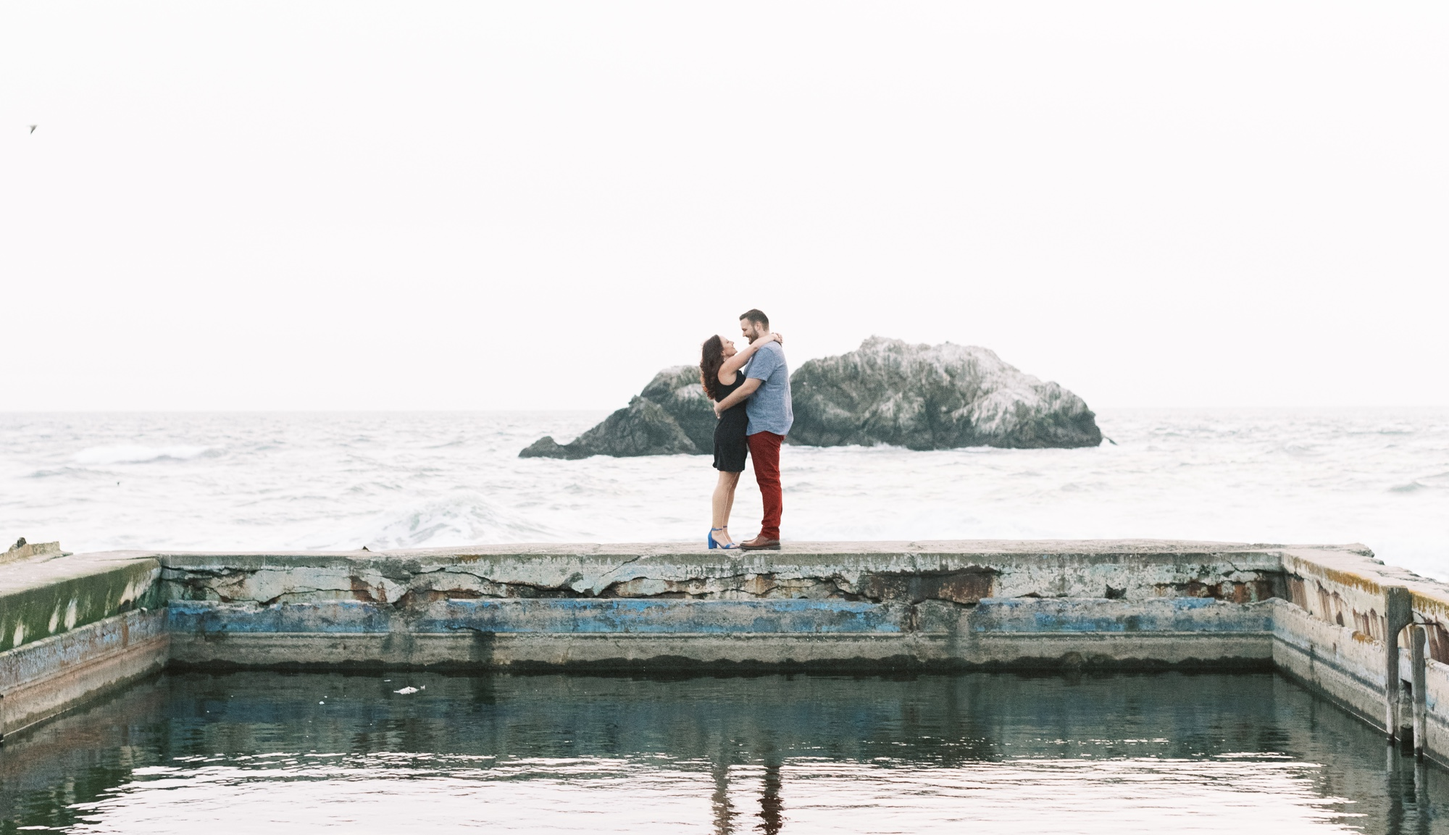
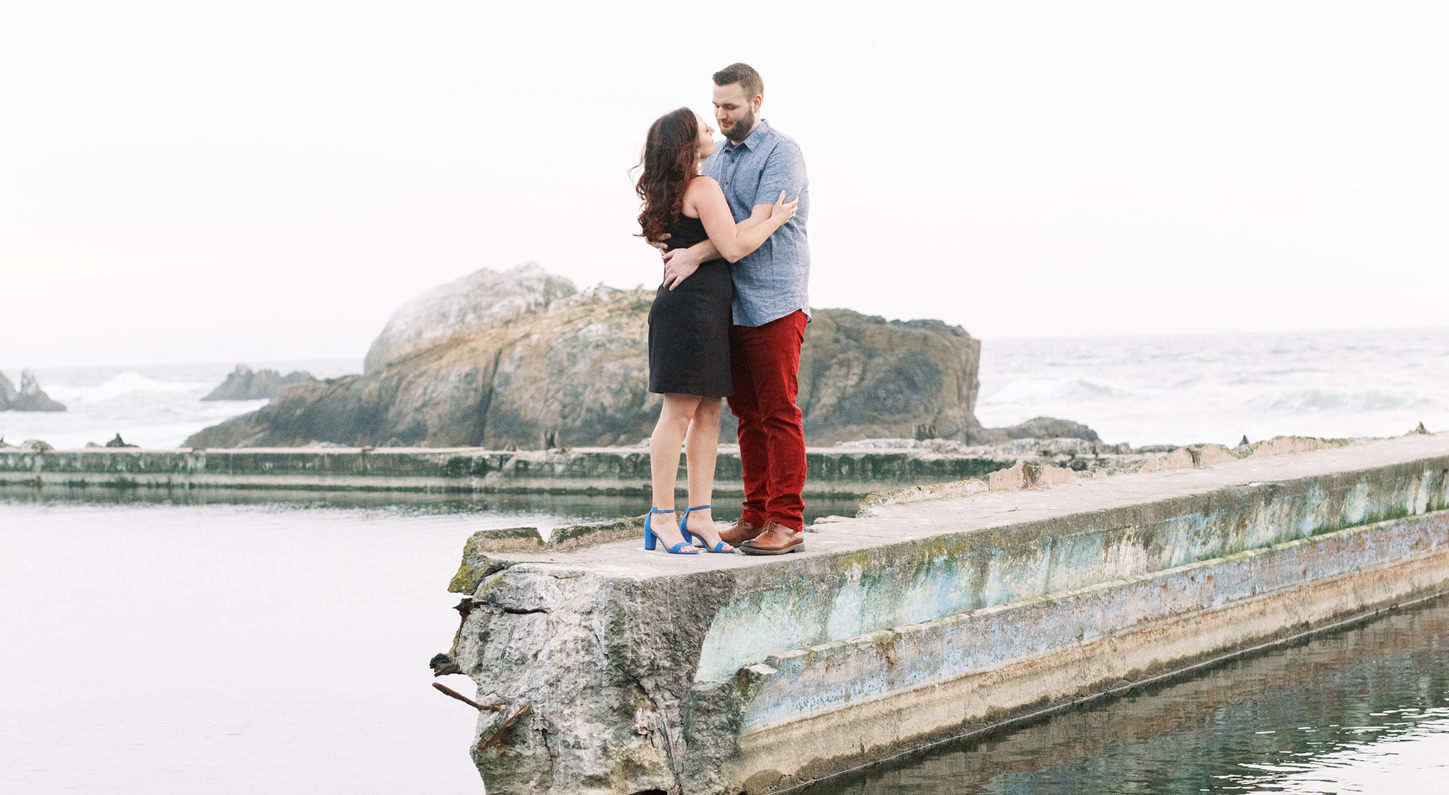
Different hero images and better cutouts

diff --git a/css/styles.min.css b/css/styles.min.css
@@ -1,1 +1,1 @@
-@import url(https://fonts.googleapis.com/css?family=Open+Sans:300italic,400italic,600italic,700italic,800italic,400,300,600,700,800);@import url(https://fonts.googleapis.com/css?family=Merriweather:400,300,400italic,300italic,700,700italic);@import url(https://fonts.googleapis.com/css?family=Nunito:400,300,700);p{font-size:15px;line-height:29px;color:rgba(28,54,83,0.6);padding-bottom:20px}h1{font-size:60px}h2{font-size:40px;font-weight:300;color:#3D4351}h3{color:#3D4351;font-size:18px;font-weight:700;text-transform:uppercase;letter-spacing:3px;line-height:29px}h4{font-size:18px}h5{font-size:15px;color:#3D4351;text-transform:uppercase;font-weight:500}.btn{font-size:13px;border:solid 2px;-moz-border-radius:40px;-webkit-border-radius:40px;border-radius:40px;display:inline-block;text-transform:uppercase}.btn:hover,.btn:focus{color:#fff;border-color:#e8ca6f;background-color:#e8ca6f}.btn-white{font-size:13px;border:solid 2px;-moz-border-radius:40px;-webkit-border-radius:40px;border-radius:40px;display:inline-block;border-color:#fff}.btn-white:hover,.btn-white:focus{color:#e8ca6f;border-color:#e8ca6f}.btn-fill{color:#fff;border:solid 2px #e8ca6f;-moz-border-radius:40px;-webkit-border-radius:40px;border-radius:40px;display:inline-block;text-transform:uppercase;background-color:#e8ca6f}.btn-fill:hover,.btn-fill:focus{color:#fff;background-color:#d3b56a;border-color:#d3b56a}.btn-small{padding:8px 30px}.btn-large{padding:15px 40px}.btn-margin-right{margin-right:20px}section.intro,section.features-extra,section.rsvp{background:#fff}section.features,section.events,section.blog{background:#f8f9fd}.group:after{content:"";display:table;clear:both}.no-padding{padding:0}.no-margin{margin:0}a{color:#e8ca6f;-webkit-transition-timing-function:ease;transition-timing-function:ease;-webkit-transition-duration:200ms;transition-duration:200ms;-webkit-transition-property:color, border-color, background-color;transition-property:color, border-color, background-color}a:hover,a:focus{color:#d3b56a;text-decoration:none}body{font-family:"Open Sans",sans-serif;font-weight:300;color:rgba(28,54,83,0.6);-webkit-text-size-adjust:100%}*:focus{outline:none !important}ul,ol{margin:0;padding:0}ul li{list-style:none}section .header{padding-bottom:30px}.section-padding{padding:40px 0}.section-border{border-bottom:1px solid #E6E9EA}.tooltip{position:absolute;z-index:1070;display:block;font-family:"Helvetica Neue", Helvetica, Arial, sans-serif;font-size:12px;font-weight:normal;line-height:1.4;visibility:visible;filter:alpha(opacity=0);opacity:0}.tooltip.in{filter:alpha(opacity=90);opacity:.9}.tooltip.top{padding:5px 0;margin-top:-3px}.tooltip.right{padding:0 5px;margin-left:3px}.tooltip.bottom{padding:5px 0;margin-top:3px}.tooltip.left{padding:0 5px;margin-left:-3px}.tooltip-inner{max-width:200px;padding:3px 8px;color:#fff;text-align:center;text-decoration:none;text-transform:capitalize;background-color:#000;border-radius:4px}.pulse2{animation-name:pulse2;animation-duration:1s;animation-iteration-count:infinite;animation-timing-function:linear}@keyframes pulse2{0%{transform:scale(1.1)}50%{transform:scale(0.8)}100%{transform:scale(1)}}.floating-arrow{animation-name:floating-arrow;animation-duration:2s;animation-iteration-count:infinite;animation-timing-function:ease-in-out}@keyframes floating-arrow{from{transform:translate(-50%, 0)}65%{transform:translate(-50%, 15px)}to{transform:translate(-50%, 0)}}.floating-logo{animation-name:floating-logo;animation-duration:2s;animation-iteration-count:infinite;animation-timing-function:ease-in-out}@keyframes floating-logo{from{transform:translate(-50%, 0)}50%{transform:translate(-50%, 10px)}to{transform:translate(-50%, 0)}}.wp1,.wp2,.wp3,.wp4,.wp5,.wp6,.wp7,.wp8,.wp9{visibility:hidden}.wp8,.wp9{-webkit-animation-delay:0.3s;animation-delay:0.3s}.bounceInLeft,.bounceInRight,.fadeInUp,.fadeInUpDelay,.fadeInDown,.fadeInUpD,.fadeInLeft,.fadeInRight,.bounceInDown{visibility:visible}.header-nav.open{visibility:visible;opacity:0.9;-webkit-transition:opacity 0.5s;transition:opacity 0.5s}.nav-toggle{position:absolute;top:0;right:15px;z-index:999999;padding:10px 35px 16px 0;cursor:pointer}.nav-toggle:focus{outline:none}.nav-toggle span,.nav-toggle span:before,.nav-toggle span:after{content:"";position:absolute;display:block;width:35px;height:3px;-moz-border-radius:1px;-webkit-border-radius:1px;border-radius:1px;background:#fff;cursor:pointer}.nav-toggle span:before{top:-10px}.nav-toggle span:after{bottom:-10px}.nav-toggle span,.nav-toggle span:before,.nav-toggle span:after{-moz-transition:all 300ms ease-in-out;-o-transition:all 300ms ease-in-out;-webkit-transition:all 300ms ease-in-out;transition:all 300ms ease-in-out}.nav-toggle.active span{background-color:transparent}.nav-toggle.active span:before,.nav-toggle.active span:after{top:0}.nav-toggle.active span:before{-moz-transform:rotate(45deg);-ms-transform:rotate(45deg);-o-transform:rotate(45deg);-webkit-transform:rotate(45deg);transform:rotate(45deg)}.nav-toggle.active span:after{top:10px;-moz-transform:translatey(-10px) rotate(-45deg);-ms-transform:translatey(-10px) rotate(-45deg);-o-transform:translatey(-10px) rotate(-45deg);-webkit-transform:translatey(-10px) rotate(-45deg);transform:translatey(-10px) rotate(-45deg)}.navicon{position:absolute;height:26px;right:10px;top:48px;visibility:hidden;transition:all 300ms ease-in-out}.hero{min-height:750px;background:url("../img/hero.jpg") center center;-webkit-background-size:cover;-moz-background-size:cover;-o-background-size:cover;background-size:cover;position:relative}.hero .down-arrow a{color:#fff}.hero h1{color:#fff;margin-bottom:40px}.hero p.intro{color:#fff;font-size:20px;font-weight:300;margin-bottom:80px}.hero .hero-content{padding-top:40%}.hero .hero-content img{width:55%;margin-bottom:12%}.navigation{transition:all 300ms ease-in-out;position:fixed;width:100%;z-index:999}.fixed{position:fixed;background-color:rgba(55,36,40,0.88);z-index:999;width:100%}header{padding:50px 0;border-bottom:solid 1px rgba(255,255,255,0.2);position:relative;width:1170px;margin:0 auto;transition:padding 300ms ease-in-out}header a{color:#fff;text-transform:uppercase;font-size:13px}header a.login{margin-right:20px}header .logo{display:inline-block}header .logo img{height:19px}header ul.primary-nav{margin:0 0 0 75px;padding:0}header ul.primary-nav li{display:inline}header ul.primary-nav li a{color:#fff;padding-right:25px}header ul.primary-nav li a:hover{color:#e8ca6f}header ul.primary-nav li:last-child a{padding-right:0px}header ul.member-actions li{display:inline}header ul.member-actions li a{color:#fff}header ul.member-actions li a:hover{color:#e8ca6f}header .header-nav{display:inline-block}header .member-actions{position:absolute;right:0;top:41px;transition:all 300ms ease-in-out}.down-arrow{color:#fff;font-size:30px;position:absolute;bottom:30px;left:50%;transform:translateX(-50%)}.share-bar{margin-top:20px}.intro span.icon{font-size:40px;color:#e8ca6f;font-weight:bold}.intro-icon{display:inline-block;vertical-align:top;padding:6px 0 0 0;margin-right:20px;width:40px}.intro-content{display:inline-block;width:80%}#intro{padding-top:40px}#intro img{width:100%;height:auto}#intro p{text-align:center}.features{position:relative}.features p{margin-bottom:0;padding-bottom:0}.features h3{margin:0 0 20px 0}.features span.icon{font-size:35px;color:#e8ca6f;font-weight:bold}.features .feature-icon{display:inline-block;vertical-align:top;padding:6px 0 0 0;margin-right:20px;width:35px}.features .feature-content{display:inline-block;width:75%}.features .intro-icon{display:inline-block;vertical-align:top;padding:6px 0 0 0;margin-right:20px}.features .intro-content{display:inline-block;width:80%}.features ul.features-stack{margin-top:50px}.features ul.features-stack li{margin-top:20px;padding-bottom:20px;border-bottom:solid 1px #E6E9EA}.features ul.features-stack li:last-child{padding-bottom:0px;border-bottom:none}.features .ipad-wrap{width:706px;height:1002px;background:url("../img/ipad-device.png") no-repeat center center;z-index:1}.features .iphone-wrap{width:304px;height:620px;background:url("../img/iphone6.png") no-repeat center center;position:absolute;left:530px;bottom:129px;z-index:2}.features .device-showcase{position:absolute;bottom:-365px;right:61%}.features .responsive-feature-img,.features-extra .responsive-feature-img{display:none}.devices{position:relative}.features-extra{position:relative;z-index:3}.features-extra .btn{margin-top:20px}.features-extra .macbook-wrap{position:absolute;width:916px;height:540px;background:url("../img/macbook-pro.png") no-repeat center center;top:114px;z-index:4;left:50%}.hero-strip{margin-top:120px;background:#333844 url("../img/polygonal-bg.jpg") no-repeat center center;padding-bottom:190px;position:relative}.hero-strip i{font-family:"Nunito",sans-serif;font-weight:300;font-size:25px;color:#F69D52;vertical-align:top;margin-left:-8px;font-style:normal}.hero-strip h2{color:#fff;margin:0 0 20px 0}.hero-strip p{color:#ACB1B4}.hero-strip .btn{margin-top:10px}.hero-strip .logo-placeholder{width:230px;height:230px;position:absolute;bottom:-285px;left:50%;transform:translateX(-50%)}.events .leftcol{padding-right:100px;border-right:solid 1px #E6E9EA}.events .rightcol{padding-left:100px}.events .time{font-size:13px;font-style:italic;text-transform:lowercase;color:rgba(28,54,83,0.6)}.blog{padding-bottom:120px}.blog img{width:100%;height:auto;-moz-transition:all 300ms ease-in-out;-o-transition:all 300ms ease-in-out;-webkit-transition:all 300ms ease-in-out;transition:all 300ms ease-in-out}.blog h2{font-size:11px;color:#ACB1B4;font-weight:500;text-transform:uppercase;margin-top:35px}.blog .btn{margin-top:20px}.blog .blog-img-wrap{position:relative;overflow:hidden}.blog .blog-img-wrap .overlay{position:absolute;width:100%;height:100%;background-color:rgba(255,255,255,0.5);-moz-transition:all 300ms ease-in-out;-o-transition:all 300ms ease-in-out;-webkit-transition:all 300ms ease-in-out;transition:all 300ms ease-in-out;-ms-filter:"progid:DXImageTransform.Microsoft.Alpha(Opacity=0)";filter:alpha(opacity=0);opacity:0}.blog .blog-img-wrap i{color:#fff;font-size:20px;position:absolute;width:20px;height:20px;top:25px;right:35px}.blog .blog-img-wrap:hover img,.blog .blog-img-wrap:focus img{-moz-transform:scale(1.1);-ms-transform:scale(1.1);-o-transform:scale(1.1);-webkit-transform:scale(1.1);transform:scale(1.1)}.blog .blog-img-wrap:hover .overlay,.blog .blog-img-wrap:focus .overlay{-ms-filter:"progid:DXImageTransform.Microsoft.Alpha(Opacity=1)";filter:alpha(opacity=1);opacity:1;z-index:9}.blog figcaption i{margin-left:5px;font-size:15px}.blog figcaption a.blog-post-title{color:rgba(28,54,83,0.6)}.blog figcaption a.blog-post-title:hover,.blog figcaption a.blog-post-title:focus{color:#3D4351}#instagram img{width:100%}#eng-pics img{width:100%;height:auto;-moz-transition:all 300ms ease-in-out;-o-transition:all 300ms ease-in-out;-webkit-transition:all 300ms ease-in-out;transition:all 300ms ease-in-out}#eng-pics .img-wrap{position:relative;overflow:hidden;border-radius:4px}#eng-pics .img-wrap .overlay{position:absolute;width:100%;height:100%;background-color:rgba(255,255,255,0.5);-moz-transition:all 300ms ease-in-out;-o-transition:all 300ms ease-in-out;-webkit-transition:all 300ms ease-in-out;transition:all 300ms ease-in-out;-ms-filter:"progid:DXImageTransform.Microsoft.Alpha(Opacity=0)";filter:alpha(opacity=0);opacity:0}#eng-pics .img-wrap i{color:#fff;font-size:15px;position:absolute;width:15px;height:15px;top:6px;right:6px}#eng-pics .img-wrap:hover img,#eng-pics .img-wrap:focus img{-moz-transform:scale(1.1);-ms-transform:scale(1.1);-o-transform:scale(1.1);-webkit-transform:scale(1.1);transform:scale(1.1)}#eng-pics .img-wrap:hover .overlay,#eng-pics .img-wrap:focus .overlay{-ms-filter:"progid:DXImageTransform.Microsoft.Alpha(Opacity=1)";filter:alpha(opacity=1);opacity:1;z-index:9}#eng-pics .diamond{width:230px;height:230px;position:absolute;bottom:-145px;left:50%;transform:translateX(-50%);z-index:500}#eng-pics .ring{width:75px;height:75px;border-radius:75px;border:10px solid #d0d3d4;position:absolute;left:34%;top:75%;z-index:-1}#video-bg{height:300px}#video-content{width:100%;height:100%;padding-top:100px;position:relative;background:rgba(17,17,17,0.5);text-align:center}#video-content h5{color:#ffffff;font-size:30px;font-weight:300;letter-spacing:10px}#video-content p{color:#ffffff}#map-canvas{height:500px;width:100%}#map-content-wrapper{position:relative;margin-top:-502px;margin-bottom:150px}#map-content{margin-top:40px;padding:50px 60px;background:#fff;-webkit-transition:opacity 0.5s, visibility 0.6s, margin-top 0.5s;transition:opacity 0.5s, visibility 0.6s, margin-top 0.5s}#btn-show-content{padding:20px;background:#fff;cursor:pointer;display:inline-block;-webkit-transition:opacity 0.5s, visibility 0.6s, margin-top 0.5s;transition:opacity 0.5s, visibility 0.6s, margin-top 0.5s}.toggle-map-content{opacity:0;visibility:hidden}.pointer-events-none{pointer-events:none}.pointer-events-auto{pointer-events:auto}.rsvp{padding-bottom:140px}.rsvp .rsvp-form .rsvp-btn{padding:15px 0;border-radius:3px;width:100%;font-size:13px}.rsvp .rsvp-form .form-input-group{width:100%;height:55px;margin:0 auto 10px;-moz-border-radius:5px;-webkit-border-radius:5px;border-radius:5px;border:solid 1px #E6E9EA;text-align:left;position:relative}.rsvp .rsvp-form .form-input-group i{color:#e8ca6f;font-size:14px}.rsvp .rsvp-form .form-input-group i:after{content:"";height:30px;width:1px;border-right:solid 1px #E6E9EA;position:absolute;top:50%;left:30px;transform:translateY(-50%)}.rsvp .rsvp-form .form-input-group i.fa-user,.rsvp .rsvp-form .form-input-group i.fa-users,.rsvp .rsvp-form .form-input-group i.fa-envelope,.rsvp .rsvp-form .form-input-group .fa-key{font-size:14px;position:absolute;top:50%;transform:translateY(-50%);margin-left:20px}.rsvp .rsvp-form .form-input-group input{padding-left:68px;width:100%;height:100%;-moz-border-radius:6px;-webkit-border-radius:6px;border-radius:6px;border:none}.rsvp .rsvp-form .form-input-group input::-webkit-input-placeholder{color:#BCC1C3}.rsvp .rsvp-form .form-input-group input:-moz-placeholder{color:#BCC1C3}.rsvp .rsvp-form .form-input-group input::-moz-placeholder{color:#BCC1C3}.rsvp .rsvp-form .form-input-group input:-ms-input-placeholder{color:#BCC1C3}footer .content{border-top:1px solid #E6E9EA;padding-bottom:20px}footer .to-top-wrapper{font-size:30px;display:block;cursor:pointer;margin:-25px auto 50px;border-radius:50%;width:50px;height:50px;border:1px solid #E6E9EA;background:#fff}footer .to-top-wrapper .to-top{display:block;-webkit-transition:all .3s ease-in-out;-moz-transition:all .3s ease-in-out;-ms-transition:all .3s ease-in-out;-o-transition:all .3s ease-in-out;transition:all .3s ease-in-out}footer .to-top-wrapper .to-top:hover{margin-top:-5px}footer span.fa-heart{color:#ff415c;font-size:18px;margin:0 2px}body.modal-open{padding-right:0 !important}.modal-body{padding:25px}
+@import url(https://fonts.googleapis.com/css?family=Open+Sans:300italic,400italic,600italic,700italic,800italic,400,300,600,700,800);@import url(https://fonts.googleapis.com/css?family=Merriweather:400,300,400italic,300italic,700,700italic);@import url(https://fonts.googleapis.com/css?family=Nunito:400,300,700);p{font-size:15px;line-height:29px;color:rgba(28,54,83,0.6);padding-bottom:20px}h1{font-size:60px}h2{font-size:40px;font-weight:300;color:#3D4351}h3{color:#3D4351;font-size:18px;font-weight:700;text-transform:uppercase;letter-spacing:3px;line-height:29px}h4{font-size:18px}h5{font-size:15px;color:#3D4351;text-transform:uppercase;font-weight:500}.btn{font-size:13px;border:solid 2px;-moz-border-radius:40px;-webkit-border-radius:40px;border-radius:40px;display:inline-block;text-transform:uppercase}.btn:hover,.btn:focus{color:#fff;border-color:#e8ca6f;background-color:#e8ca6f}.btn-white{font-size:13px;border:solid 2px;-moz-border-radius:40px;-webkit-border-radius:40px;border-radius:40px;display:inline-block;border-color:#fff}.btn-white:hover,.btn-white:focus{color:#e8ca6f;border-color:#e8ca6f}.btn-fill{color:#fff;border:solid 2px #e8ca6f;-moz-border-radius:40px;-webkit-border-radius:40px;border-radius:40px;display:inline-block;text-transform:uppercase;background-color:#e8ca6f}.btn-fill:hover,.btn-fill:focus{color:#fff;background-color:#d3b56a;border-color:#d3b56a}.btn-small{padding:8px 30px}.btn-large{padding:15px 40px}.btn-margin-right{margin-right:20px}section.intro,section.features-extra,section.rsvp{background:#fff}section.features,section.events,section.blog{background:#f8f9fd}.group:after{content:"";display:table;clear:both}.no-padding{padding:0}.no-margin{margin:0}a{color:#e8ca6f;-webkit-transition-timing-function:ease;transition-timing-function:ease;-webkit-transition-duration:200ms;transition-duration:200ms;-webkit-transition-property:color, border-color, background-color;transition-property:color, border-color, background-color}a:hover,a:focus{color:#d3b56a;text-decoration:none}body{font-family:"Open Sans",sans-serif;font-weight:300;color:rgba(28,54,83,0.6);-webkit-text-size-adjust:100%}*:focus{outline:none !important}ul,ol{margin:0;padding:0}ul li{list-style:none}section .header{padding-bottom:30px}.section-padding{padding:40px 0}.section-border{border-bottom:1px solid #E6E9EA}.tooltip{position:absolute;z-index:1070;display:block;font-family:"Helvetica Neue", Helvetica, Arial, sans-serif;font-size:12px;font-weight:normal;line-height:1.4;visibility:visible;filter:alpha(opacity=0);opacity:0}.tooltip.in{filter:alpha(opacity=90);opacity:.9}.tooltip.top{padding:5px 0;margin-top:-3px}.tooltip.right{padding:0 5px;margin-left:3px}.tooltip.bottom{padding:5px 0;margin-top:3px}.tooltip.left{padding:0 5px;margin-left:-3px}.tooltip-inner{max-width:200px;padding:3px 8px;color:#fff;text-align:center;text-decoration:none;text-transform:capitalize;background-color:#000;border-radius:4px}.pulse2{animation-name:pulse2;animation-duration:1s;animation-iteration-count:infinite;animation-timing-function:linear}@keyframes pulse2{0%{transform:scale(1.1)}50%{transform:scale(0.8)}100%{transform:scale(1)}}.floating-arrow{animation-name:floating-arrow;animation-duration:2s;animation-iteration-count:infinite;animation-timing-function:ease-in-out}@keyframes floating-arrow{from{transform:translate(-50%, 0)}65%{transform:translate(-50%, 15px)}to{transform:translate(-50%, 0)}}.floating-logo{animation-name:floating-logo;animation-duration:2s;animation-iteration-count:infinite;animation-timing-function:ease-in-out}@keyframes floating-logo{from{transform:translate(-50%, 0)}50%{transform:translate(-50%, 10px)}to{transform:translate(-50%, 0)}}.wp1,.wp2,.wp3,.wp4,.wp5,.wp6,.wp7,.wp8,.wp9{visibility:hidden}.wp8,.wp9{-webkit-animation-delay:0.3s;animation-delay:0.3s}.bounceInLeft,.bounceInRight,.fadeInUp,.fadeInUpDelay,.fadeInDown,.fadeInUpD,.fadeInLeft,.fadeInRight,.bounceInDown{visibility:visible}.header-nav.open{visibility:visible;opacity:0.9;-webkit-transition:opacity 0.5s;transition:opacity 0.5s}.nav-toggle{position:absolute;top:0;right:15px;z-index:999999;padding:10px 35px 16px 0;cursor:pointer}.nav-toggle:focus{outline:none}.nav-toggle span,.nav-toggle span:before,.nav-toggle span:after{content:"";position:absolute;display:block;width:35px;height:3px;-moz-border-radius:1px;-webkit-border-radius:1px;border-radius:1px;background:#fff;cursor:pointer}.nav-toggle span:before{top:-10px}.nav-toggle span:after{bottom:-10px}.nav-toggle span,.nav-toggle span:before,.nav-toggle span:after{-moz-transition:all 300ms ease-in-out;-o-transition:all 300ms ease-in-out;-webkit-transition:all 300ms ease-in-out;transition:all 300ms ease-in-out}.nav-toggle.active span{background-color:transparent}.nav-toggle.active span:before,.nav-toggle.active span:after{top:0}.nav-toggle.active span:before{-moz-transform:rotate(45deg);-ms-transform:rotate(45deg);-o-transform:rotate(45deg);-webkit-transform:rotate(45deg);transform:rotate(45deg)}.nav-toggle.active span:after{top:10px;-moz-transform:translatey(-10px) rotate(-45deg);-ms-transform:translatey(-10px) rotate(-45deg);-o-transform:translatey(-10px) rotate(-45deg);-webkit-transform:translatey(-10px) rotate(-45deg);transform:translatey(-10px) rotate(-45deg)}.navicon{position:absolute;height:26px;right:10px;top:48px;visibility:hidden;transition:all 300ms ease-in-out}.hero{min-height:950px;background:url("../img/hero.jpg") center center;-webkit-background-size:cover;-moz-background-size:cover;-o-background-size:cover;background-size:cover;position:relative}.hero .down-arrow a{color:#fff}.hero h1{color:#fff;margin-bottom:40px}.hero p.intro{color:#fff;font-size:20px;font-weight:300;margin-bottom:80px}.hero .hero-content{padding-top:40%}.hero .hero-content img{width:55%;margin-bottom:12%}.navigation{transition:all 300ms ease-in-out;position:fixed;width:100%;z-index:999}.fixed{position:fixed;background-color:rgba(55,36,40,0.88);z-index:999;width:100%}header{padding:50px 0;border-bottom:solid 1px rgba(255,255,255,0.2);position:relative;width:1170px;margin:0 auto;transition:padding 300ms ease-in-out}header a{color:#fff;text-transform:uppercase;font-size:13px}header a.login{margin-right:20px}header .logo{display:inline-block}header .logo img{height:19px}header ul.primary-nav{margin:0 0 0 75px;padding:0}header ul.primary-nav li{display:inline}header ul.primary-nav li a{color:#fff;padding-right:25px}header ul.primary-nav li a:hover{color:#e8ca6f}header ul.primary-nav li:last-child a{padding-right:0px}header ul.member-actions li{display:inline}header ul.member-actions li a{color:#fff}header ul.member-actions li a:hover{color:#e8ca6f}header .header-nav{display:inline-block}header .member-actions{position:absolute;right:0;top:41px;transition:all 300ms ease-in-out}.down-arrow{color:#fff;font-size:30px;position:absolute;bottom:30px;left:50%;transform:translateX(-50%)}.share-bar{margin-top:20px}.intro span.icon{font-size:40px;color:#e8ca6f;font-weight:bold}.intro-icon{display:inline-block;vertical-align:top;padding:6px 0 0 0;margin-right:20px;width:40px}.intro-content{display:inline-block;width:80%}#intro{padding-top:40px}#intro img{width:100%;height:auto}#intro p{text-align:center}.features{position:relative}.features p{margin-bottom:0;padding-bottom:0}.features h3{margin:0 0 20px 0}.features span.icon{font-size:35px;color:#e8ca6f;font-weight:bold}.features .feature-icon{display:inline-block;vertical-align:top;padding:6px 0 0 0;margin-right:20px;width:35px}.features .feature-content{display:inline-block;width:75%}.features .intro-icon{display:inline-block;vertical-align:top;padding:6px 0 0 0;margin-right:20px}.features .intro-content{display:inline-block;width:80%}.features ul.features-stack{margin-top:50px}.features ul.features-stack li{margin-top:20px;padding-bottom:20px;border-bottom:solid 1px #E6E9EA}.features ul.features-stack li:last-child{padding-bottom:0px;border-bottom:none}.features .ipad-wrap{width:706px;height:1002px;background:url("../img/ipad-device.png") no-repeat center center;z-index:1}.features .iphone-wrap{width:304px;height:620px;background:url("../img/iphone6.png") no-repeat center center;position:absolute;left:530px;bottom:129px;z-index:2}.features .device-showcase{position:absolute;bottom:-365px;right:61%}.features .responsive-feature-img,.features-extra .responsive-feature-img{display:none}.devices{position:relative}.features-extra{position:relative;z-index:3}.features-extra .btn{margin-top:20px}.features-extra .macbook-wrap{position:absolute;width:916px;height:540px;background:url("../img/macbook-pro.png") no-repeat center center;top:114px;z-index:4;left:50%}.hero-strip{margin-top:120px;background:#333844 url("../img/polygonal-bg.jpg") no-repeat center center;padding-bottom:190px;position:relative}.hero-strip i{font-family:"Nunito",sans-serif;font-weight:300;font-size:25px;color:#F69D52;vertical-align:top;margin-left:-8px;font-style:normal}.hero-strip h2{color:#fff;margin:0 0 20px 0}.hero-strip p{color:#ACB1B4}.hero-strip .btn{margin-top:10px}.hero-strip .logo-placeholder{width:230px;height:230px;position:absolute;bottom:-285px;left:50%;transform:translateX(-50%)}.events .leftcol{padding-right:100px;border-right:solid 1px #E6E9EA}.events .rightcol{padding-left:100px}.events .time{font-size:13px;font-style:italic;text-transform:lowercase;color:rgba(28,54,83,0.6)}.blog{padding-bottom:120px}.blog img{width:100%;height:auto;-moz-transition:all 300ms ease-in-out;-o-transition:all 300ms ease-in-out;-webkit-transition:all 300ms ease-in-out;transition:all 300ms ease-in-out}.blog h2{font-size:11px;color:#ACB1B4;font-weight:500;text-transform:uppercase;margin-top:35px}.blog .btn{margin-top:20px}.blog .blog-img-wrap{position:relative;overflow:hidden}.blog .blog-img-wrap .overlay{position:absolute;width:100%;height:100%;background-color:rgba(255,255,255,0.5);-moz-transition:all 300ms ease-in-out;-o-transition:all 300ms ease-in-out;-webkit-transition:all 300ms ease-in-out;transition:all 300ms ease-in-out;-ms-filter:"progid:DXImageTransform.Microsoft.Alpha(Opacity=0)";filter:alpha(opacity=0);opacity:0}.blog .blog-img-wrap i{color:#fff;font-size:20px;position:absolute;width:20px;height:20px;top:25px;right:35px}.blog .blog-img-wrap:hover img,.blog .blog-img-wrap:focus img{-moz-transform:scale(1.1);-ms-transform:scale(1.1);-o-transform:scale(1.1);-webkit-transform:scale(1.1);transform:scale(1.1)}.blog .blog-img-wrap:hover .overlay,.blog .blog-img-wrap:focus .overlay{-ms-filter:"progid:DXImageTransform.Microsoft.Alpha(Opacity=1)";filter:alpha(opacity=1);opacity:1;z-index:9}.blog figcaption i{margin-left:5px;font-size:15px}.blog figcaption a.blog-post-title{color:rgba(28,54,83,0.6)}.blog figcaption a.blog-post-title:hover,.blog figcaption a.blog-post-title:focus{color:#3D4351}#instagram img{width:100%}#eng-pics img{width:100%;height:auto;-moz-transition:all 300ms ease-in-out;-o-transition:all 300ms ease-in-out;-webkit-transition:all 300ms ease-in-out;transition:all 300ms ease-in-out}#eng-pics .img-wrap{position:relative;overflow:hidden;border-radius:4px}#eng-pics .img-wrap .overlay{position:absolute;width:100%;height:100%;background-color:rgba(255,255,255,0.5);-moz-transition:all 300ms ease-in-out;-o-transition:all 300ms ease-in-out;-webkit-transition:all 300ms ease-in-out;transition:all 300ms ease-in-out;-ms-filter:"progid:DXImageTransform.Microsoft.Alpha(Opacity=0)";filter:alpha(opacity=0);opacity:0}#eng-pics .img-wrap i{color:#fff;font-size:15px;position:absolute;width:15px;height:15px;top:6px;right:6px}#eng-pics .img-wrap:hover img,#eng-pics .img-wrap:focus img{-moz-transform:scale(1.1);-ms-transform:scale(1.1);-o-transform:scale(1.1);-webkit-transform:scale(1.1);transform:scale(1.1)}#eng-pics .img-wrap:hover .overlay,#eng-pics .img-wrap:focus .overlay{-ms-filter:"progid:DXImageTransform.Microsoft.Alpha(Opacity=1)";filter:alpha(opacity=1);opacity:1;z-index:9}#eng-pics .diamond{width:230px;height:230px;position:absolute;bottom:-145px;left:50%;transform:translateX(-50%);z-index:500}#eng-pics .ring{width:75px;height:75px;border-radius:75px;border:10px solid #d0d3d4;position:absolute;left:34%;top:75%;z-index:-1}#video-bg{height:300px}#video-content{width:100%;height:100%;padding-top:100px;position:relative;background:rgba(17,17,17,0.5);text-align:center}#video-content h5{color:#ffffff;font-size:30px;font-weight:300;letter-spacing:10px}#video-content p{color:#ffffff}#map-canvas{height:500px;width:100%}#map-content-wrapper{position:relative;margin-top:-502px;margin-bottom:150px}#map-content{margin-top:40px;padding:50px 60px;background:#fff;-webkit-transition:opacity 0.5s, visibility 0.6s, margin-top 0.5s;transition:opacity 0.5s, visibility 0.6s, margin-top 0.5s}#btn-show-content{padding:20px;background:#fff;cursor:pointer;display:inline-block;-webkit-transition:opacity 0.5s, visibility 0.6s, margin-top 0.5s;transition:opacity 0.5s, visibility 0.6s, margin-top 0.5s}.toggle-map-content{opacity:0;visibility:hidden}.pointer-events-none{pointer-events:none}.pointer-events-auto{pointer-events:auto}.rsvp{padding-bottom:140px}.rsvp .rsvp-form .rsvp-btn{padding:15px 0;border-radius:3px;width:100%;font-size:13px}.rsvp .rsvp-form .form-input-group{width:100%;height:55px;margin:0 auto 10px;-moz-border-radius:5px;-webkit-border-radius:5px;border-radius:5px;border:solid 1px #E6E9EA;text-align:left;position:relative}.rsvp .rsvp-form .form-input-group i{color:#e8ca6f;font-size:14px}.rsvp .rsvp-form .form-input-group i:after{content:"";height:30px;width:1px;border-right:solid 1px #E6E9EA;position:absolute;top:50%;left:30px;transform:translateY(-50%)}.rsvp .rsvp-form .form-input-group i.fa-user,.rsvp .rsvp-form .form-input-group i.fa-users,.rsvp .rsvp-form .form-input-group i.fa-envelope,.rsvp .rsvp-form .form-input-group .fa-key{font-size:14px;position:absolute;top:50%;transform:translateY(-50%);margin-left:20px}.rsvp .rsvp-form .form-input-group input{padding-left:68px;width:100%;height:100%;-moz-border-radius:6px;-webkit-border-radius:6px;border-radius:6px;border:none}.rsvp .rsvp-form .form-input-group input::-webkit-input-placeholder{color:#BCC1C3}.rsvp .rsvp-form .form-input-group input:-moz-placeholder{color:#BCC1C3}.rsvp .rsvp-form .form-input-group input::-moz-placeholder{color:#BCC1C3}.rsvp .rsvp-form .form-input-group input:-ms-input-placeholder{color:#BCC1C3}footer .content{border-top:1px solid #E6E9EA;padding-bottom:20px}footer .to-top-wrapper{font-size:30px;display:block;cursor:pointer;margin:-25px auto 50px;border-radius:50%;width:50px;height:50px;border:1px solid #E6E9EA;background:#fff}footer .to-top-wrapper .to-top{display:block;-webkit-transition:all .3s ease-in-out;-moz-transition:all .3s ease-in-out;-ms-transition:all .3s ease-in-out;-o-transition:all .3s ease-in-out;transition:all .3s ease-in-out}footer .to-top-wrapper .to-top:hover{margin-top:-5px}footer span.fa-heart{color:#ff415c;font-size:18px;margin:0 2px}body.modal-open{padding-right:0 !important}.modal-body{padding:25px}

diff --git a/index.html b/index.html
@@ -104,25 +104,20 @@
                 <h3 class="header">How we met</h3>
             </div>
         </div>
-        <!-- <div class="row">
-            <div class="col-sm-12">
-                <div style="display: flex; justify-content: center;">
-                    <img src="img/will-cutout.jpg" class="wp8">
-                    <img src="img/sharon-cutout.jpg" class="wp9">
-                </div>
-            </div>
-        </div> -->
         <div class="row">
-            <div class="col-md-6 col-md-push-3">
+            <div class="col-md-3 hidden-sm hidden-xs"><img src="img/will-cutout2.png" class="wp1" /></div>
+            <div class="col-md-6">
                 <p>
-                    I first saw Antara in the Fall of 2008 when we started our undergrad. I was instantly attracted to
-                    her but was far too nervous to speak to her. I had told my friend I liked her and news had traveled
-                    fast and she soon found out. Her first reaction was "Who is Ram?" and she began searching for me in
-                    the class. She started to take notice of me and no matter how boring the lecture was, we never
-                    missed a class after that. After a good few months I finally plucked up the courage to ask her out
-                    and the rest is history :)
+                    Sharon grew up in California with her parents and six other siblings. Unlike what you might imagine, she did not spend every waking moment at the beach, surfing the waves.
+                </p>
+                <p>
+                    Will grew up in Kansas with his parents and two siblings. Exactly as you might imagine, he grew up in a small town on a farm, and was up at the crack of dawn milking Bessie.
+                </p>
+                <p> 
+                    Ok… maybe I made the milking Bessie part up (but he did have a cat named Bessie). 
                 </p>
             </div>
+            <div class="col-md-3 hidden-sm hidden-xs"><img src="img/sharon-cutout2.png" class="wp2"></div>
         </div>
     </div>
 </section>
@@ -238,7 +233,7 @@
             <div class="col-md-12 text-center">
                 <h3>A picture is worth a thousand words!</h3>
                 <p>Help us capture the moment, tag your photos with the hashtag
-                    <a href="https://instagram.com/explore/tags/ramandantara/" target="_blank">#RamAndAntara</a>
+                    <a href="https://instagram.com/explore/tags/willandsharon/" target="_blank">#WillAndSharon</a>
                 </p>
             </div>
         </div>

diff --git a/sass/styles.scss b/sass/styles.scss
@@ -251,7 +251,7 @@ Navigation
 Hero
 ========================================================================== */
 .hero {
-  min-height: 750px;
+  min-height: 950px;
   background: url('../img/hero.jpg') center center;
   -webkit-background-size: cover;
   -moz-background-size: cover;
